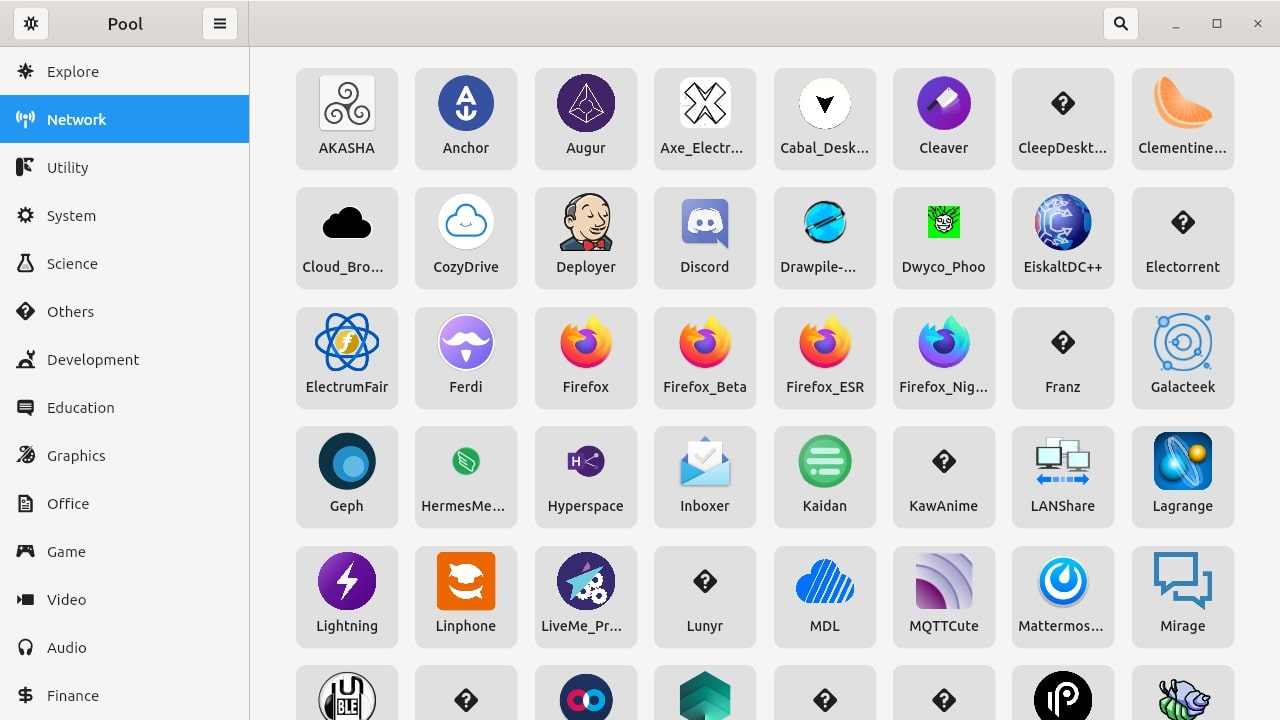
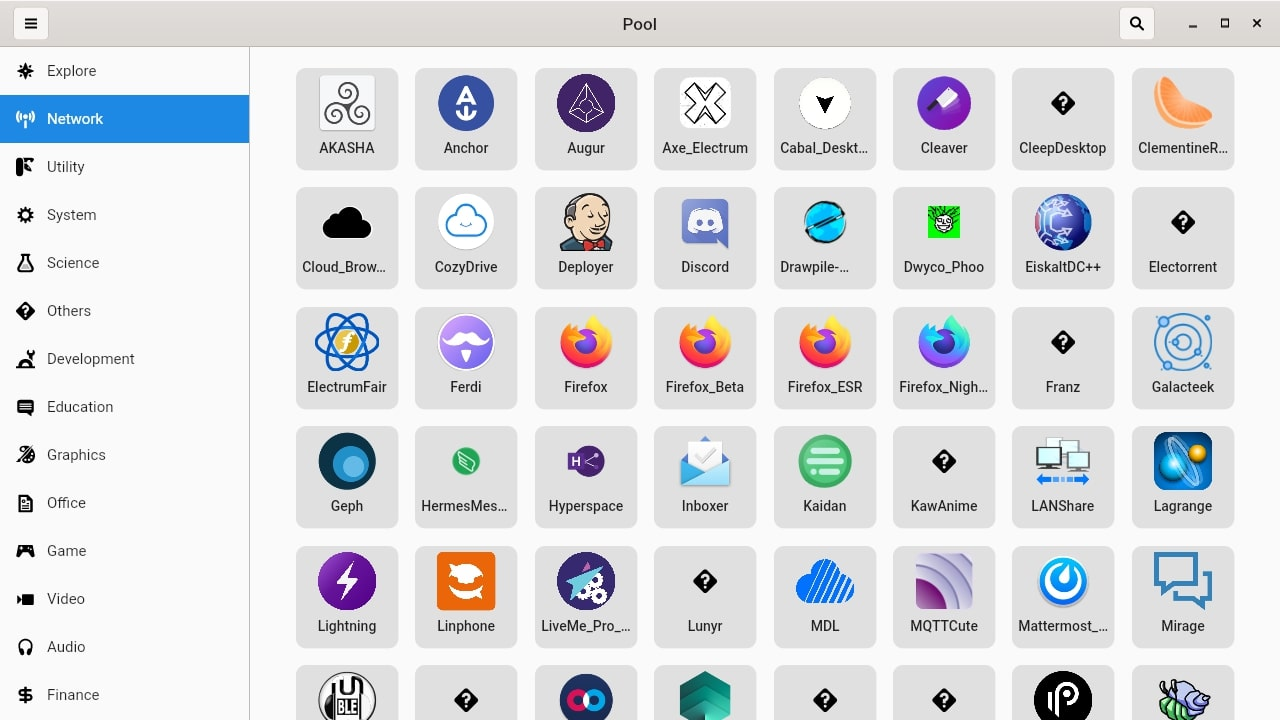
Add support for system theme, update carousel arrows and button text, update download popover to show dates, update screenshots

diff --git a/lib/main.dart b/lib/main.dart
@@ -1,6 +1,6 @@
-import 'dart:convert';
-import 'dart:math';
 import 'dart:ui';
+import 'dart:math';
+import 'dart:convert';
 
 import 'package:adwaita_icons/adwaita_icons.dart';
 import 'package:appimagepool/widgets/grid_of_apps.dart';
@@ -23,44 +23,38 @@ import 'utils/utils.dart';
 import 'widgets/widgets.dart';
 
 void main() {
-  var theme = ValueNotifier(ThemeMode.system);
   runApp(
-    ProviderScope(
-      child: ValueListenableBuilder(
-        valueListenable: theme,
-        builder: (ctx, ThemeMode themeMode, ch) => MaterialApp(
-          debugShowCheckedModeBanner: false,
-          theme: ThemeData(
-            brightness: Brightness.light,
-            canvasColor:
-                getGtkColor(colorType: GtkColorType.canvas, isDark: false),
-          ),
-          darkTheme: ThemeData(
-            brightness: Brightness.dark,
-            primaryColor: Colors.blue[700],
-            canvasColor:
-                getGtkColor(colorType: GtkColorType.canvas, isDark: true),
-          ),
-          themeMode: themeMode,
-          home: HomePage(theme: theme),
-        ),
-      ),
-    ),
+    const ProviderScope(child: MyApp()),
   );
   doWhenWindowReady(() {
     final win = appWindow;
     // win.size = const Size(1280, 720);
-    win.alignment = Alignment.center;
+    // win.alignment = Alignment.center;
     win.title = "Pool";
     win.show();
   });
 }
 
+class MyApp extends StatelessWidget {
+  const MyApp({
+    Key? key,
+  }) : super(key: key);
+
+  @override
+  Widget build(BuildContext context) {
+    final gTheme = GnomeTheme();
+    return MaterialApp(
+      debugShowCheckedModeBanner: false,
+      theme: gTheme.data(context).copyWith(primaryColor: Colors.blue[600]),
+      home: const HomePage(),
+    );
+  }
+}
+
 class HomePage extends StatefulHookWidget {
-  final ValueNotifier<ThemeMode> theme;
   // bool _isConnected = true;
 
-  const HomePage({Key? key, required this.theme}) : super(key: key);
+  const HomePage({Key? key}) : super(key: key);
   @override
   _HomePageState createState() => _HomePageState();
 }
@@ -237,25 +231,11 @@ class _HomePageState extends State<HomePage> {
                     ],
                   ),
                 ),
-                GtkHeaderButton(
-                  icon: AdwaitaIcon(context.isDark
-                      ? AdwaitaIcons.night_light
-                      : AdwaitaIcons.night_light_disabled),
-                  onPressed: () => {
-                    widget.theme.value =
-                        context.isDark ? ThemeMode.light : ThemeMode.dark
-                  },
-                ),
               ],
               trailing: [
                 if (categories != null || featured != null)
                   GtkHeaderButton(
-                    color: toggleSearch.value
-                        ? getAdaptiveGtkColor(
-                            context,
-                            colorType: GtkColorType.headerSwitcherTabBackground,
-                          )
-                        : null,
+                    isActive: toggleSearch.value,
                     icon: const AdwaitaIcon(
                       AdwaitaIcons.system_search,
                       size: 17,
@@ -788,10 +768,11 @@ class CarouselArrow extends StatelessWidget {
           primary: getAdaptiveGtkColor(
             context,
             colorType: GtkColorType.headerButtonBackgroundBottom,
-          ).withOpacity(0.50),
+          ).withOpacity(0.70),
           shape: const CircleBorder(),
         ),
-        child: AdwaitaIcon(icon),
+        child: AdwaitaIcon(icon,
+            color: context.textTheme.bodyText1!.color, size: 30),
         onPressed: onPressed,
       ),
     );

diff --git a/lib/widgets/customdialog.dart b/lib/widgets/customdialog.dart
@@ -3,6 +3,7 @@ import 'package:flutter_hooks/flutter_hooks.dart';
 import 'package:hooks_riverpod/hooks_riverpod.dart';
 import 'package:bitsdojo_window/bitsdojo_window.dart';
 import 'package:appimagepool/providers/providers.dart';
+import 'package:intl/intl.dart';
 import 'package:window_decorations/window_decorations.dart';
 import '../utils/utils.dart';
 
@@ -17,10 +18,12 @@ class CustomDialogBox extends HookConsumerWidget {
   final List<Widget> Function(int index) items;
   final List<String> versions;
   final void Function(int version)? onVersionChange;
+  final List<String> dates;
 
   const CustomDialogBox({
     Key? key,
     required this.items,
+    required this.dates,
     required this.endText,
     required this.img,
     required this.versions,
@@ -85,13 +88,20 @@ class CustomDialogBox extends HookConsumerWidget {
                     },
                     items: versions.asMap().entries.map((entry) {
                       return DropdownMenuItem<int>(
-                        child: Text(
-                          entry.value,
+                        child: Row(
+                          mainAxisAlignment: MainAxisAlignment.spaceBetween,
+                          children: [
+                            Text(entry.value),
+                            Text(DateFormat('MMM dd yyyy')
+                                .format(DateTime.parse(dates[entry.key]))),
+                          ],
                         ),
                         value: entry.key,
                       );
                     }).toList(),
                   ),
+                  Text(DateFormat('MMMM dd yyyy H:mm')
+                      .format(DateTime.parse(dates[selectedIndex.value]))),
                   const SizedBox(height: 15),
                   if (currentItem.isNotEmpty)
                     Flexible(

diff --git a/lib/screens/app.dart b/lib/screens/app.dart
@@ -150,7 +150,8 @@ class AppPage extends HookConsumerWidget {
                                             isLoadingDL.value = false;
                                           }
                                         : null,
-                                child: const Text("Download"),
+                                child: const Text("Download",
+                                    style: TextStyle(color: Colors.white)),
                                 style: ElevatedButton.styleFrom(
                                     primary: context.theme.primaryColor),
                               ),
@@ -302,6 +303,8 @@ class _DownloadDialogState extends State<DownloadDialog> {
     return CustomDialogBox(
       versions: List.generate(
           widget.response.length, (index) => widget.response[index]['name']),
+      dates: List.generate(widget.response.length,
+          (index) => widget.response[index]['created_at']),
       onVersionChange: (version) {
         checkmap.value = {};
       },
